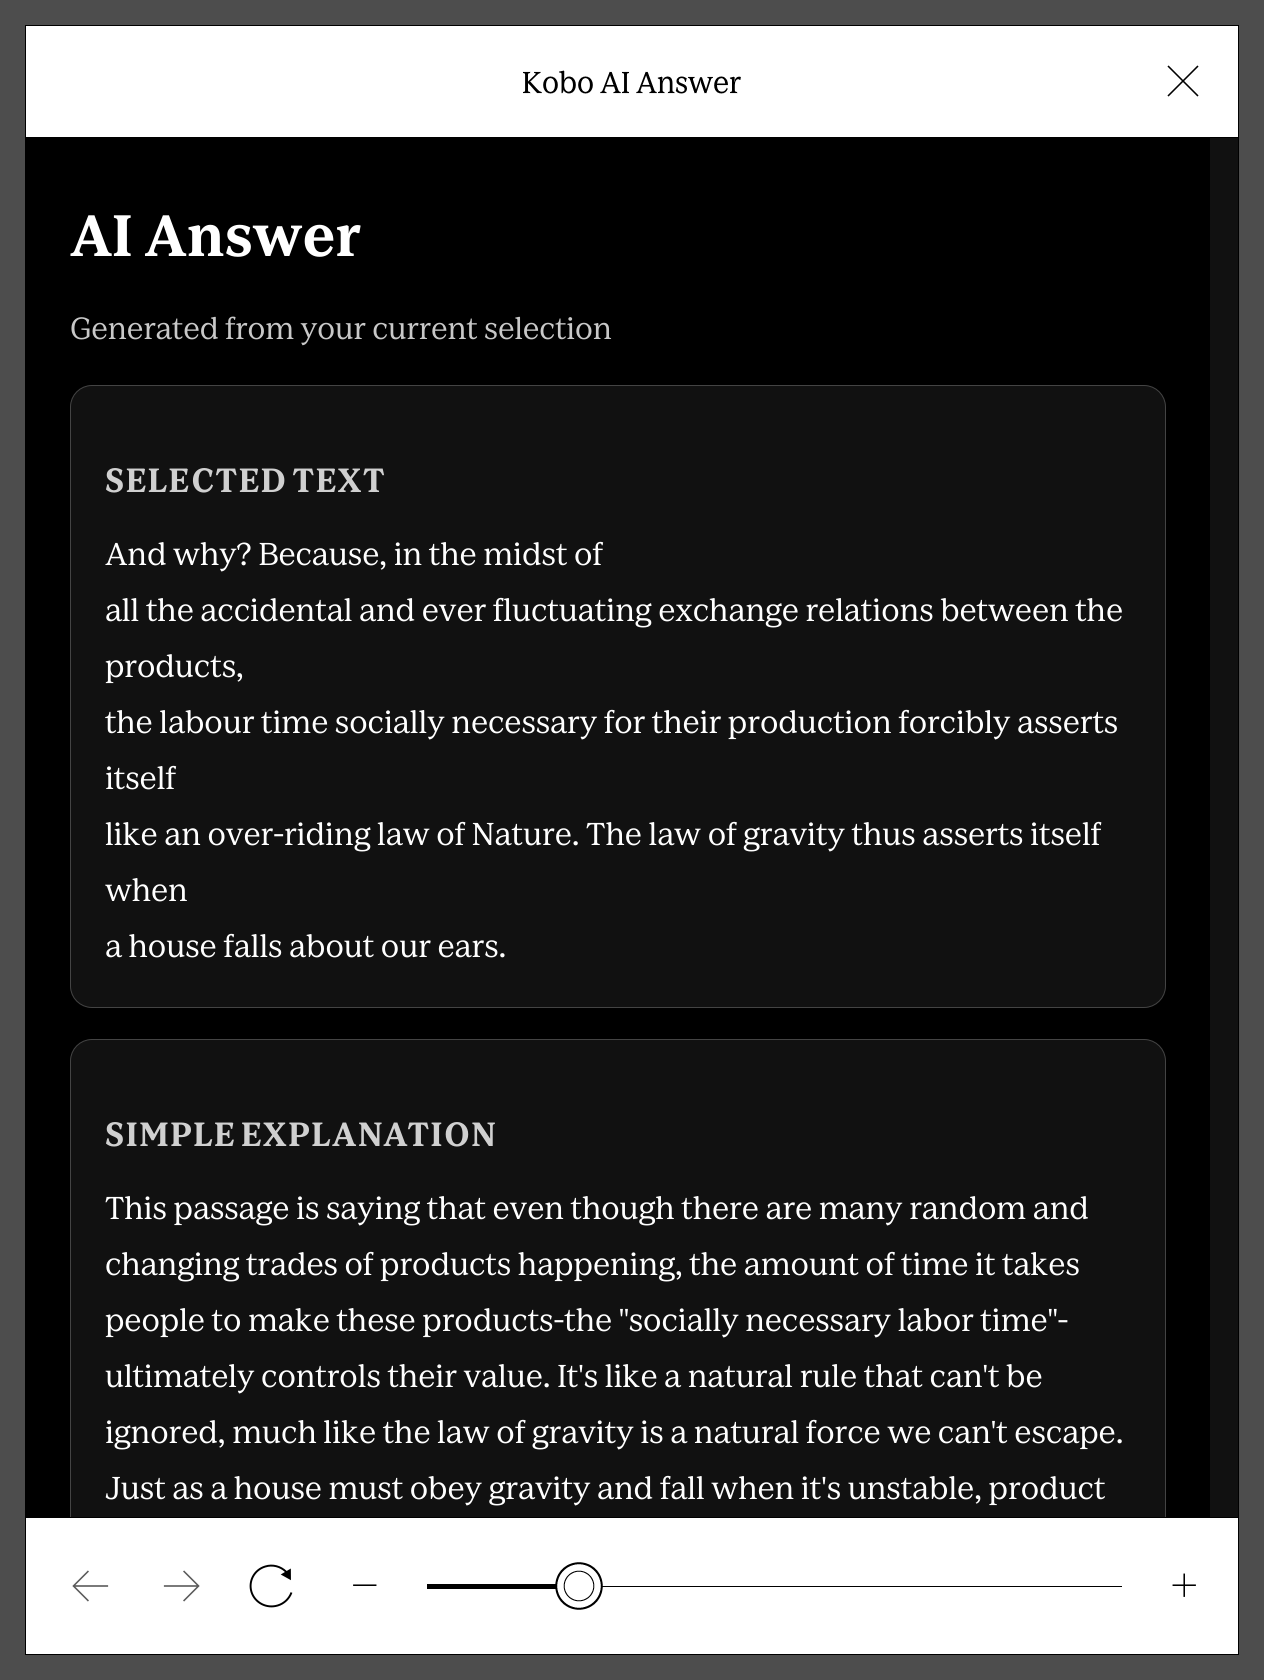
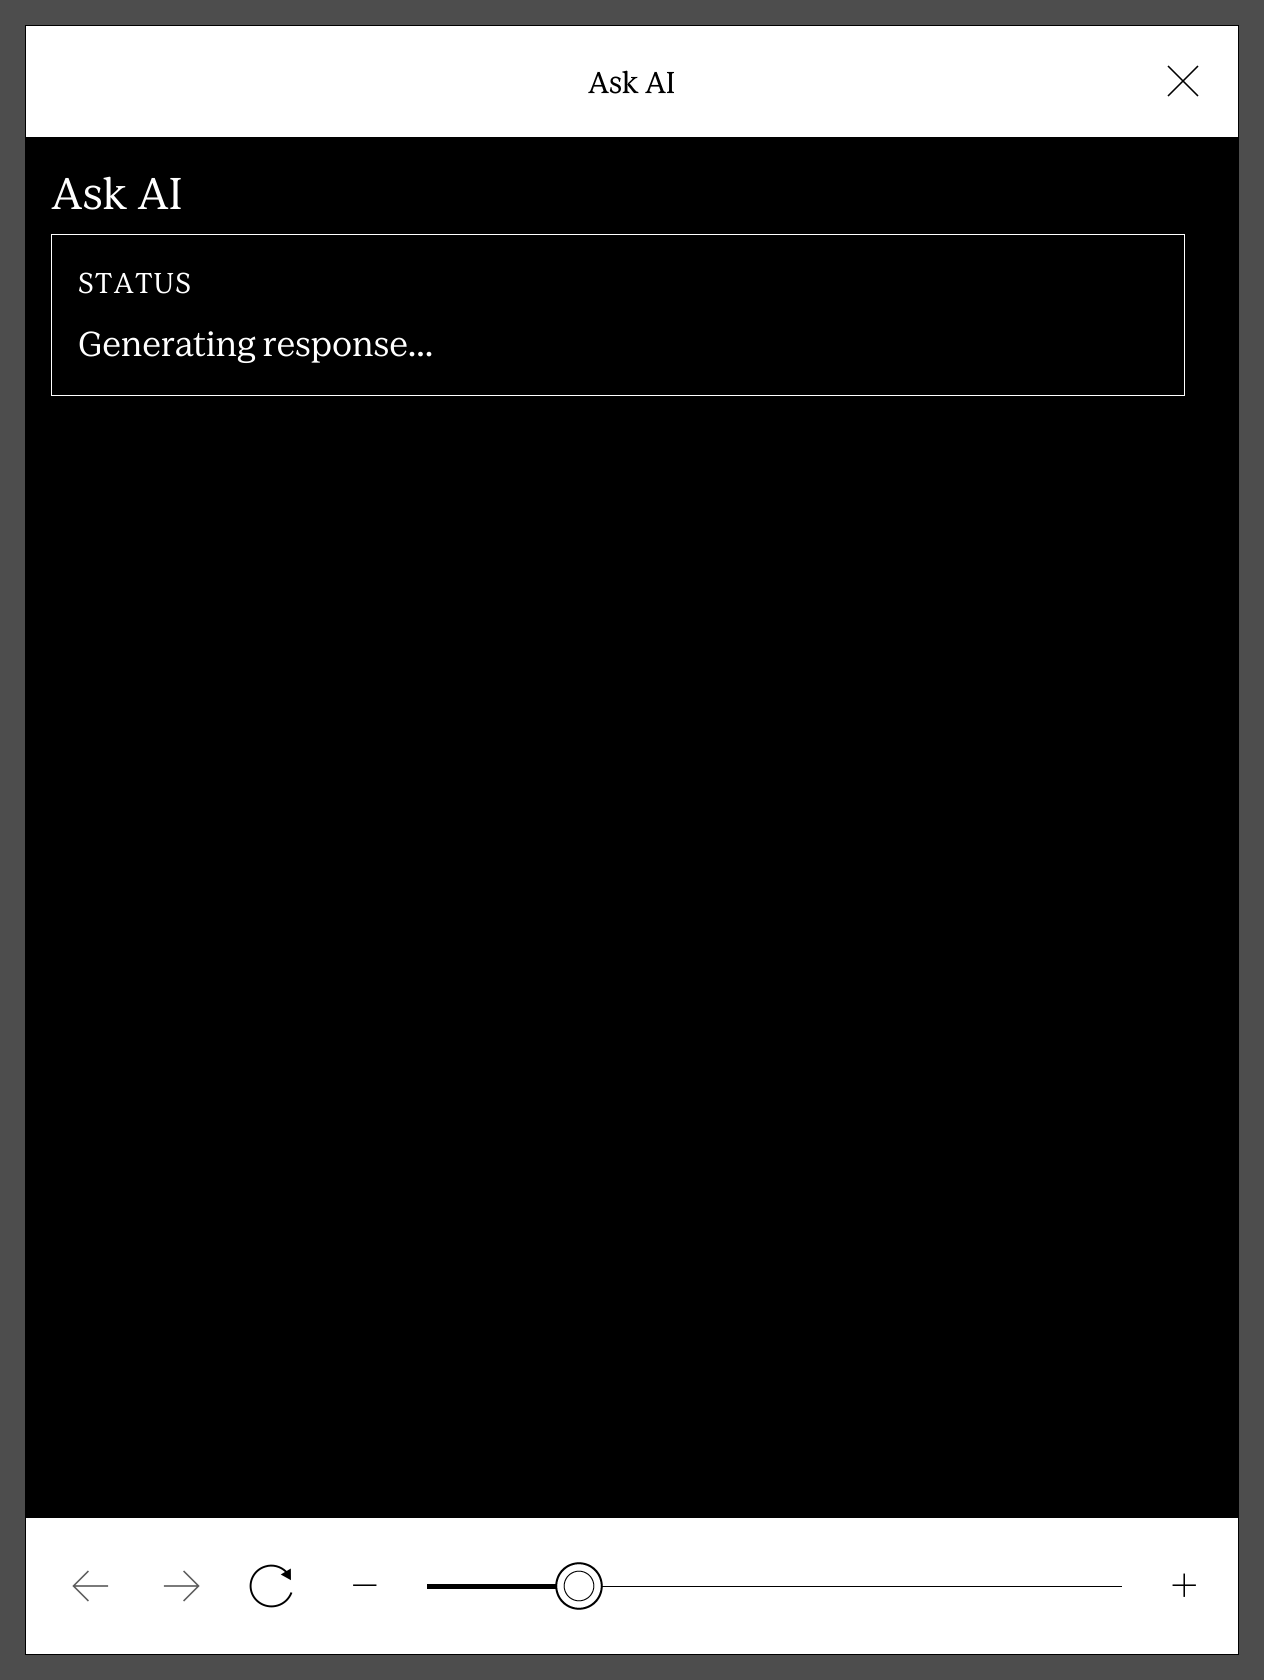
Refresh README screenshots

diff --git a/README.md b/README.md
@@ -22,12 +22,12 @@ Selection and launch flow:
 
 <img src="images/screen_004.png" alt="Ask AI menu action on Kobo" width="420" />
 
-Generated answer view:
+Loading and generated answer view:
 
 <table>
   <tr>
-    <td><img src="images/screen_005.png" alt="Formatted AI answer on Kobo" width="320" /></td>
-    <td><img src="images/screen_002.png" alt="Long-form explanation view on Kobo" width="320" /></td>
+    <td><img src="images/screen_001.png" alt="Ask AI loading state on Kobo" width="320" /></td>
+    <td><img src="images/screen_003.png" alt="Expanded Ask AI answer on Kobo" width="320" /></td>
   </tr>
 </table>
 
